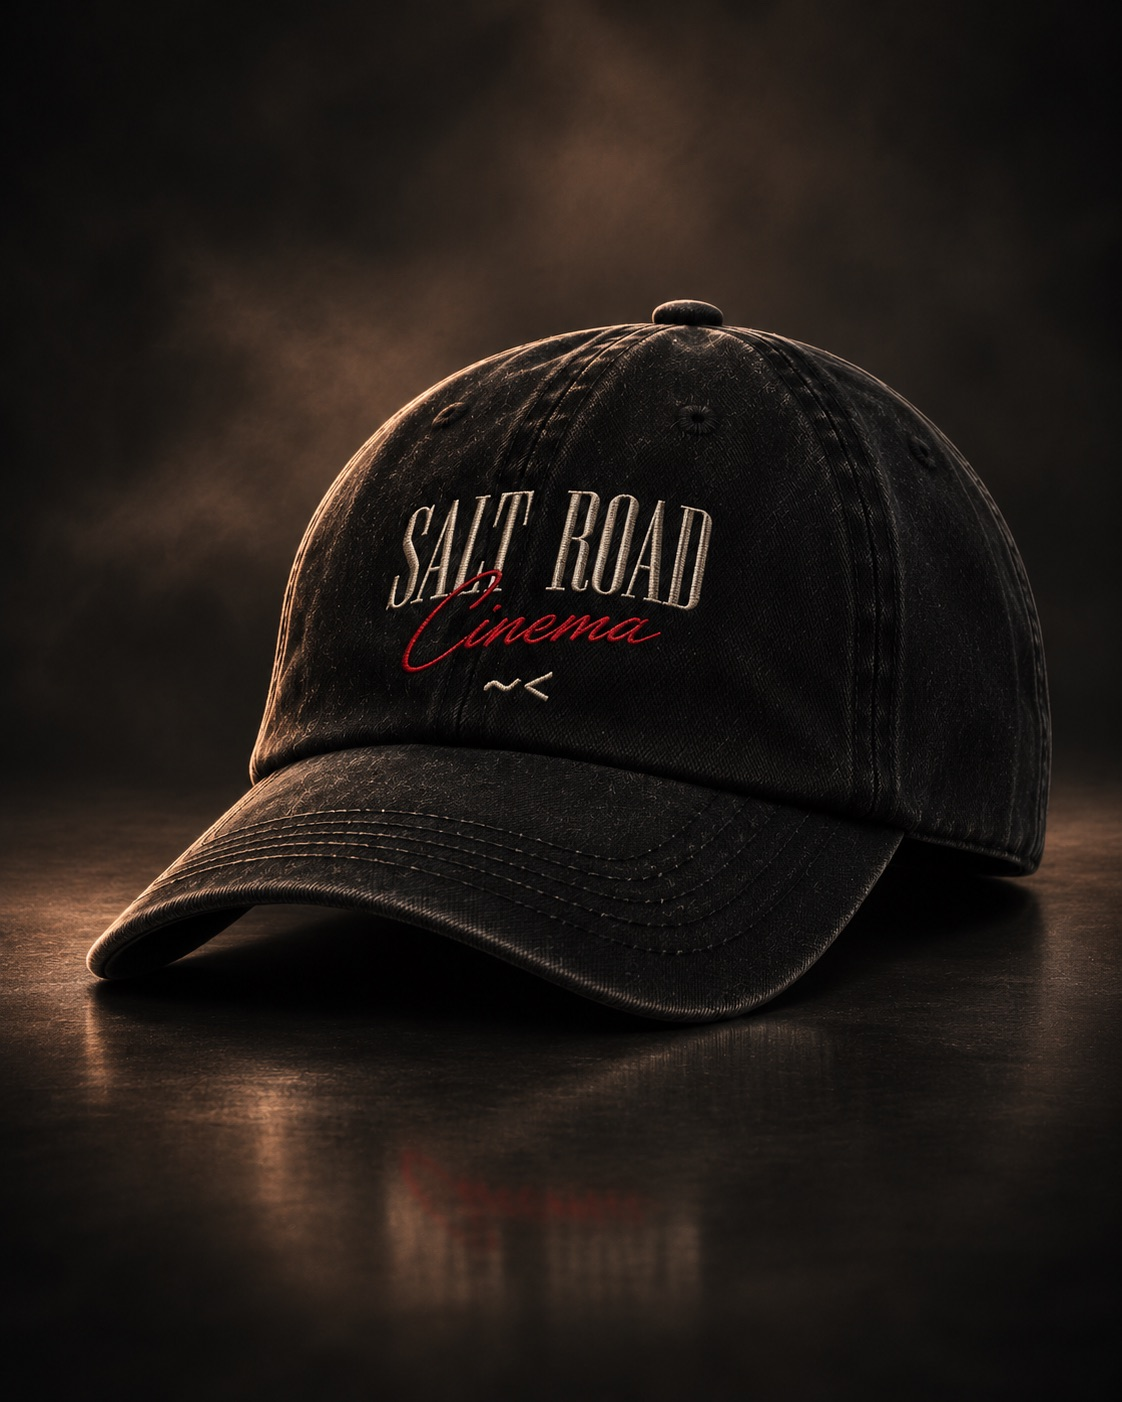
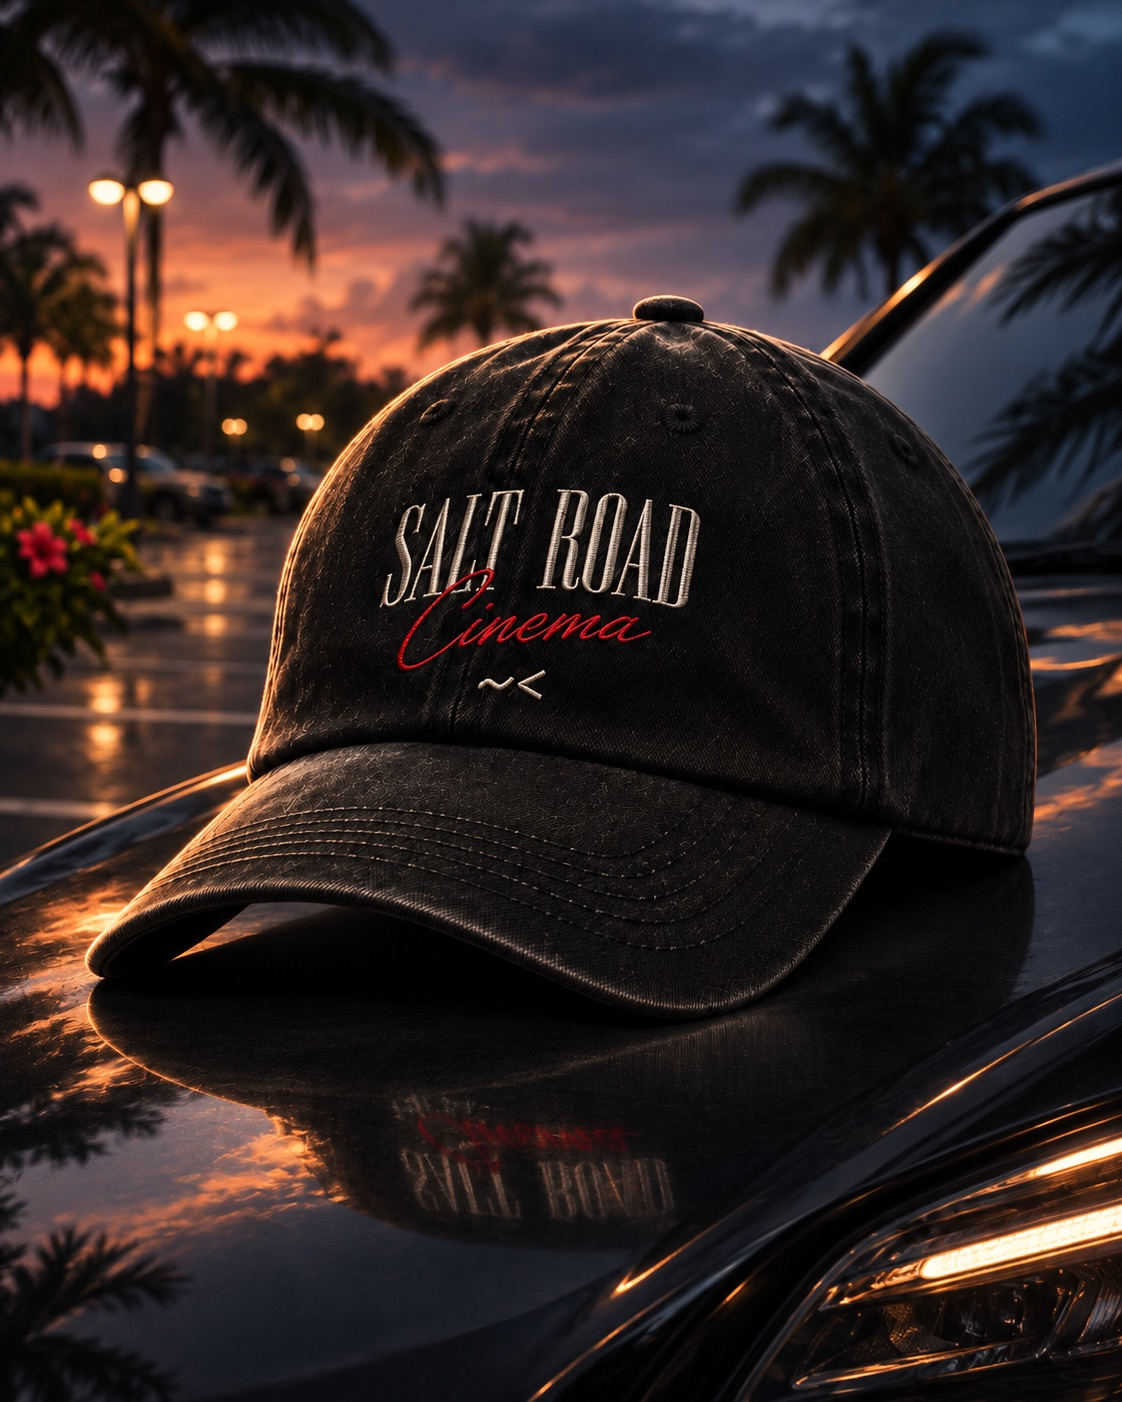
Merch: new in-scene photos for cap, tee and dice; engraved lighter added (coming soon until priced)

diff --git a/index.html b/index.html
@@ -359,13 +359,9 @@
       <div class="mock"><img src="media/merch-fuzzy-dice.jpg" alt="Salt Road Cinema fuzzy dice" loading="lazy"></div>
       <div class="merch-meta"><b data-i18n="merch.dice"></b><span class="merch-price" data-product="fuzzy-dice"></span></div>
     </a>
-    <a class="merch cut reveal" href="shop.html#sticker-logo">
-      <div class="mock mock-stickers">
-        <span class="stk stk-1"><svg viewBox="0 0 200 60"><rect x="4" y="12" width="40" height="28" rx="5" fill="none" stroke="currentColor" stroke-width="5"/><rect x="14" y="20" width="20" height="12" rx="2" fill="#e8a49b"/><text x="56" y="34" font-family="Bruno Ace SC" font-size="21" fill="currentColor">SALT ROAD</text><text x="56" y="54" font-family="Bruno Ace SC" font-size="15" fill="#e8a49b" letter-spacing="3">CINEMA</text></svg></span>
-        <span class="stk stk-2"><svg viewBox="0 0 270 60"><text x="135" y="40" text-anchor="middle" font-family="Bruno Ace SC" font-size="26" fill="#0c0b0a">SAVE THE <tspan fill="#d8443e">SUBI</tspan></text></svg></span>
-        <span class="stk stk-3"><svg viewBox="0 0 60 40"><rect x="6" y="6" width="48" height="28" rx="6" fill="none" stroke="#0c0b0a" stroke-width="5"/><rect x="18" y="14" width="24" height="12" rx="2" fill="#e8a49b"/></svg></span>
-      </div>
-      <div class="merch-meta"><b data-i18n="merch.stickers"></b><span class="merch-price" data-product="sticker-logo"></span></div>
+    <a class="merch cut reveal" href="shop.html#lighter">
+      <div class="mock"><img src="media/merch-lighter.jpg" alt="Salt Road Cinema engraved lighter" loading="lazy"></div>
+      <div class="merch-meta"><b data-i18n="merch.lighter"></b><span class="merch-price" data-product="lighter"></span></div>
     </a>
   </div>
   

diff --git a/assets/shop.js b/assets/shop.js
@@ -78,7 +78,7 @@
     <article class="pcard${p.soldOut ? " sold" : ""}" data-id="${esc(p.id)}">
       <div class="pmedia">${p.photo ? `<img src="${esc(p.photo)}" alt="${name}" loading="lazy">` : art(p, s.color)}</div>
       <div class="pbody">
-        <div class="ptop"><h3>${name}</h3><span class="pprice">${money(p.price)}</span></div>
+        <div class="ptop"><h3>${name}</h3><span class="pprice">${p.price ? money(p.price) : t("shop.soon")}</span></div>
         ${p.desc ? `<p>${esc(lc(p.desc))}</p>` : ""}
         <div class="pctl">
           ${(p.sizes || []).length ? `<label><span>${t("shop.size")}</span><select data-f="size">${opts(p.sizes, s.size)}</select></label>` : ""}
@@ -87,7 +87,7 @@
             <select data-f="qty">${[1, 2, 3, 4, 5, 6, 8, 10].map(n => `<option value="${n}"${n === s.qty ? " selected" : ""}>${n}</option>`).join("")}</select>
           </label>
         </div>
-        <button class="btn btn-pan add" type="button" ${p.soldOut ? "disabled" : ""}>${p.soldOut ? t("shop.soldout") : t("shop.add")}</button>
+        <button class="btn btn-pan add" type="button" ${p.soldOut ? "disabled" : ""}>${p.soldOut ? (p.price ? t("shop.soldout") : t("shop.soon")) : t("shop.add")}</button>
       </div>
     </article>`;
   };

diff --git a/data/products.js b/data/products.js
@@ -33,5 +33,10 @@ window.DATA.products = [
     id: "fuzzy-dice", kind: "dice", price: 15, sizes: [], colors: ["Black"], photo: "media/merch-fuzzy-dice.jpg",
     name: { en: "Fuzzy dice", nl: "Pluche dobbelstenen", pap: "Dado peludo" },
     desc: { en: "Hang them from the mirror. Embroidered Salt Road logo.", nl: "Hang ze aan je spiegel. Geborduurd Salt Road logo.", pap: "Kolg'é na bo spil. Logo di Salt Road bordá." }
+  },
+  {
+    id: "lighter", kind: "lighter", price: 0, soldOut: true, sizes: [], colors: ["Brass"], photo: "media/merch-lighter.jpg", // TODO price from Rudo, then remove soldOut
+    name: { en: "Engraved lighter", nl: "Gegraveerde aansteker", pap: "Lighter grabá" },
+    desc: { en: "Brushed brass, Salt Road logo and a road map engraved on the case.", nl: "Geborsteld messing, Salt Road logo en een wegenkaart gegraveerd op de behuizing.", pap: "Bròns sepiyá, logo di Salt Road i un mapa di kaminda grabá riba e kaha." }
   }
 ];

diff --git a/assets/i18n/home.js b/assets/i18n/home.js
@@ -138,3 +138,9 @@ SRC_I18N.add({
   nl: { "merch.tee.hopi": "HOPI GAZZZ shirt", "merch.dice": "Pluche dobbelstenen" },
   pap: { "merch.tee.hopi": "T-shirt HOPI GAZZZ", "merch.dice": "Dado peludo" }
 });
+
+SRC_I18N.add({
+  en: { "merch.lighter": "Engraved lighter", "merch.soon": "Soon", "home.shop.sub": "Tees, caps, fuzzy dice and lighters. Pickup in Kralendijk." },
+  nl: { "merch.lighter": "Gegraveerde aansteker", "merch.soon": "Binnenkort", "home.shop.sub": "Shirts, petten, pluche dobbelstenen en aanstekers. Ophalen in Kralendijk." },
+  pap: { "merch.lighter": "Lighter grabá", "merch.soon": "Pronto", "home.shop.sub": "T-shirt, pet, dado peludo i lighter. Buska na Kralendijk." }
+});

diff --git a/assets/home.js b/assets/home.js
@@ -37,7 +37,7 @@
   document.querySelectorAll("[data-car]").forEach(el => window.SRC_CAR.render(el, subi));
   const pct = Math.min(100, Math.round((C.raisedUSD / C.goalUSD) * 100));
 
-  const prices = () => document.querySelectorAll("[data-product]").forEach(el => { const p = (D.products || []).find(x => x.id === el.dataset.product); el.textContent = p ? usd(p.price) : ""; });
+  const prices = () => document.querySelectorAll("[data-product]").forEach(el => { const p = (D.products || []).find(x => x.id === el.dataset.product); el.textContent = !p ? "" : (p.soldOut || !p.price) ? I.t("merch.soon") : usd(p.price); });
   const render = () => {
     prices();
     // films

diff --git a/assets/i18n/shop.js b/assets/i18n/shop.js
@@ -96,3 +96,5 @@ SRC_I18N.add({
     "shop.dec": "Un menos"
   }
 });
+
+SRC_I18N.add({ en: { "shop.soon": "Coming soon" }, nl: { "shop.soon": "Binnenkort" }, pap: { "shop.soon": "Ta bin pronto" } });
